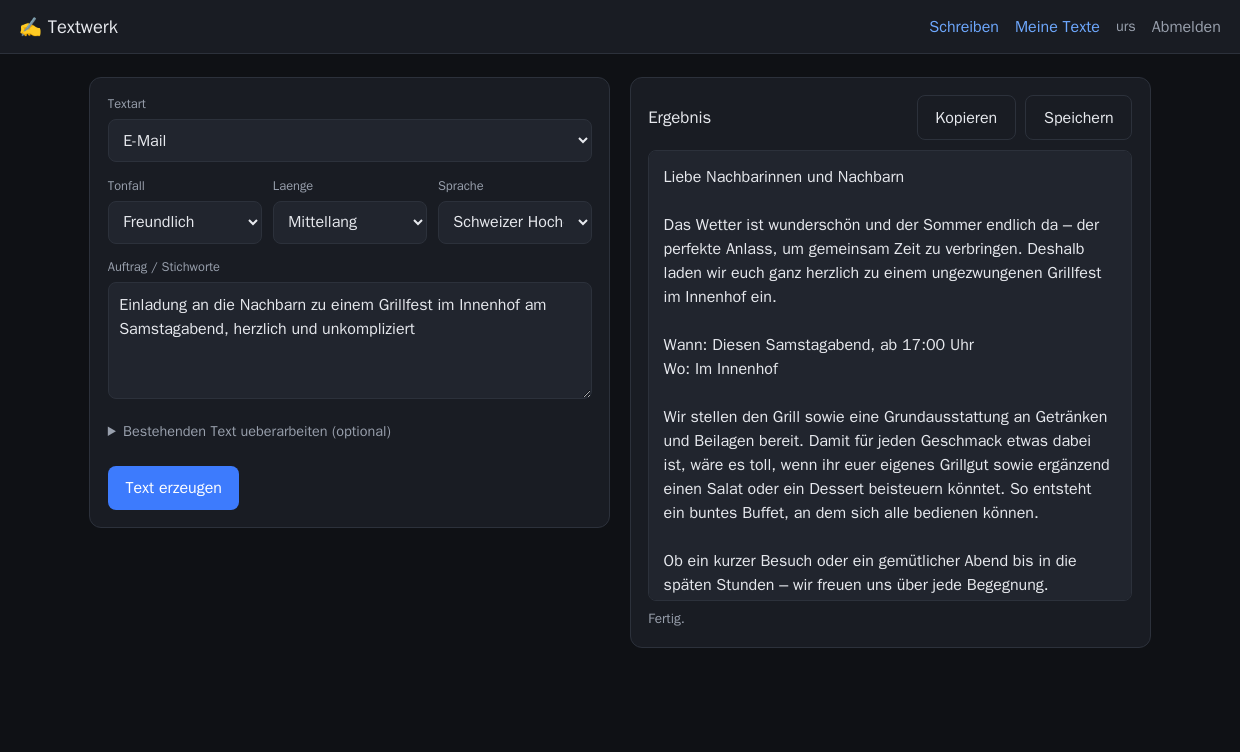
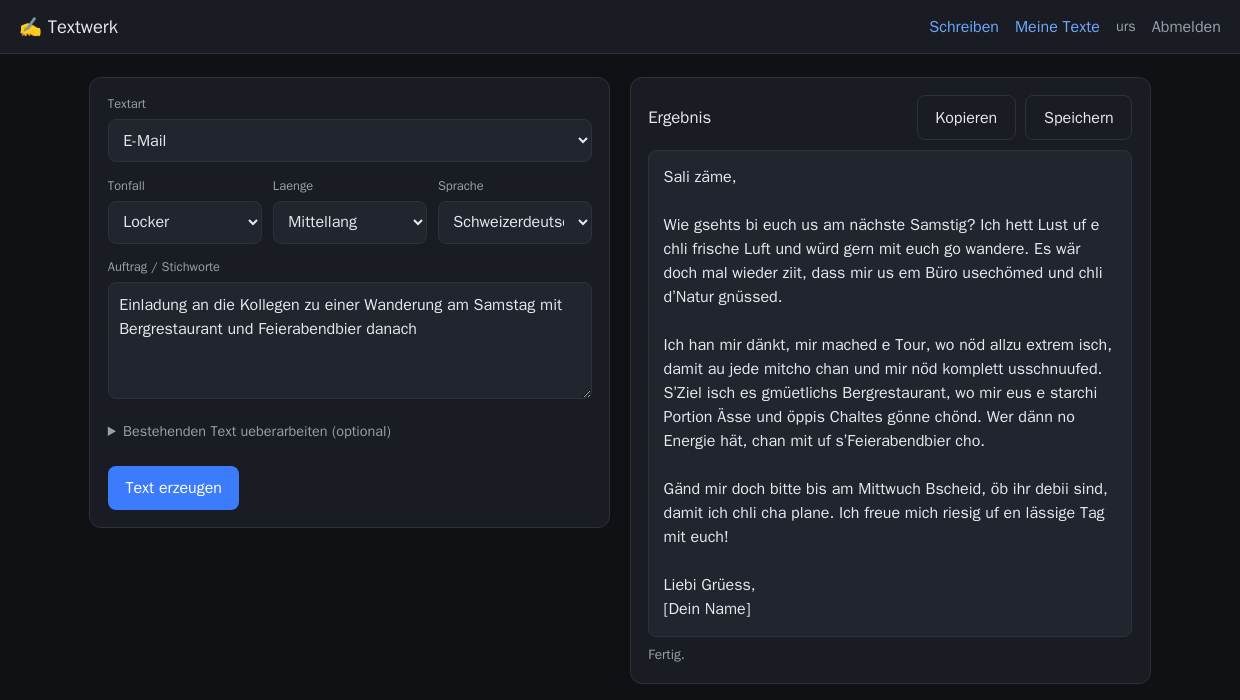
Textwerk-Karte: neuer Screenshot (Mundart) + Kartentext
Screenshot zeigt jetzt eine echt LLM-generierte E-Mail in Schweizerdeutsch
(Mundart), passend zur neuen Sprachoption. Kartentext nennt Mundart.

diff --git a/index.html b/index.html
@@ -295,12 +295,13 @@
     </div>
 
     <div class="card" id="textwerk">
-      <div class="shot"><span class="port">:8093</span><img src="shots/textwerk.png" alt="Textwerk – KI-Schreibstudio: Auftrag links, live erzeugte E-Mail in Schweizer Hochdeutsch rechts"><span class="badge">Live-Ansicht</span></div>
+      <div class="shot"><span class="port">:8093</span><img src="shots/textwerk.png" alt="Textwerk – KI-Schreibstudio: Auftrag links, live erzeugte E-Mail in Schweizerdeutsch (Mundart) rechts"><span class="badge">Live-Ansicht</span></div>
       <div class="body">
         <h3>Textwerk · KI-Schreibstudio</h3>
         <p>Erzeugt fertige Texte aus ein paar Stichworten – E-Mails, Artikel, Briefe, Social-Posts,
-          Reden oder Geschichten. Textart, Tonfall, Länge und Sprache (inkl. Schweizer Hochdeutsch)
-          sind frei wählbar, die Ausgabe erscheint <strong>live tippend</strong> im Browser und lässt
+          Reden oder Geschichten. Textart, Tonfall, Länge und Sprache (inkl. Schweizer Hochdeutsch
+          und echtem Schweizerdeutsch/Mundart) sind frei wählbar, die Ausgabe erscheint
+          <strong>live tippend</strong> im Browser und lässt
           sich direkt bearbeiten. Auch bestehender Text wird auf Wunsch umgeschrieben. Mehrbenutzerfähig
           mit eigenem Archiv und token-basierter REST-API.</p>
         <div class="tags"><span class="tag">FastAPI</span><span class="tag">Ollama</span><span class="tag">Streaming</span><span class="tag">SQLite</span><span class="tag">Multiuser</span></div>
